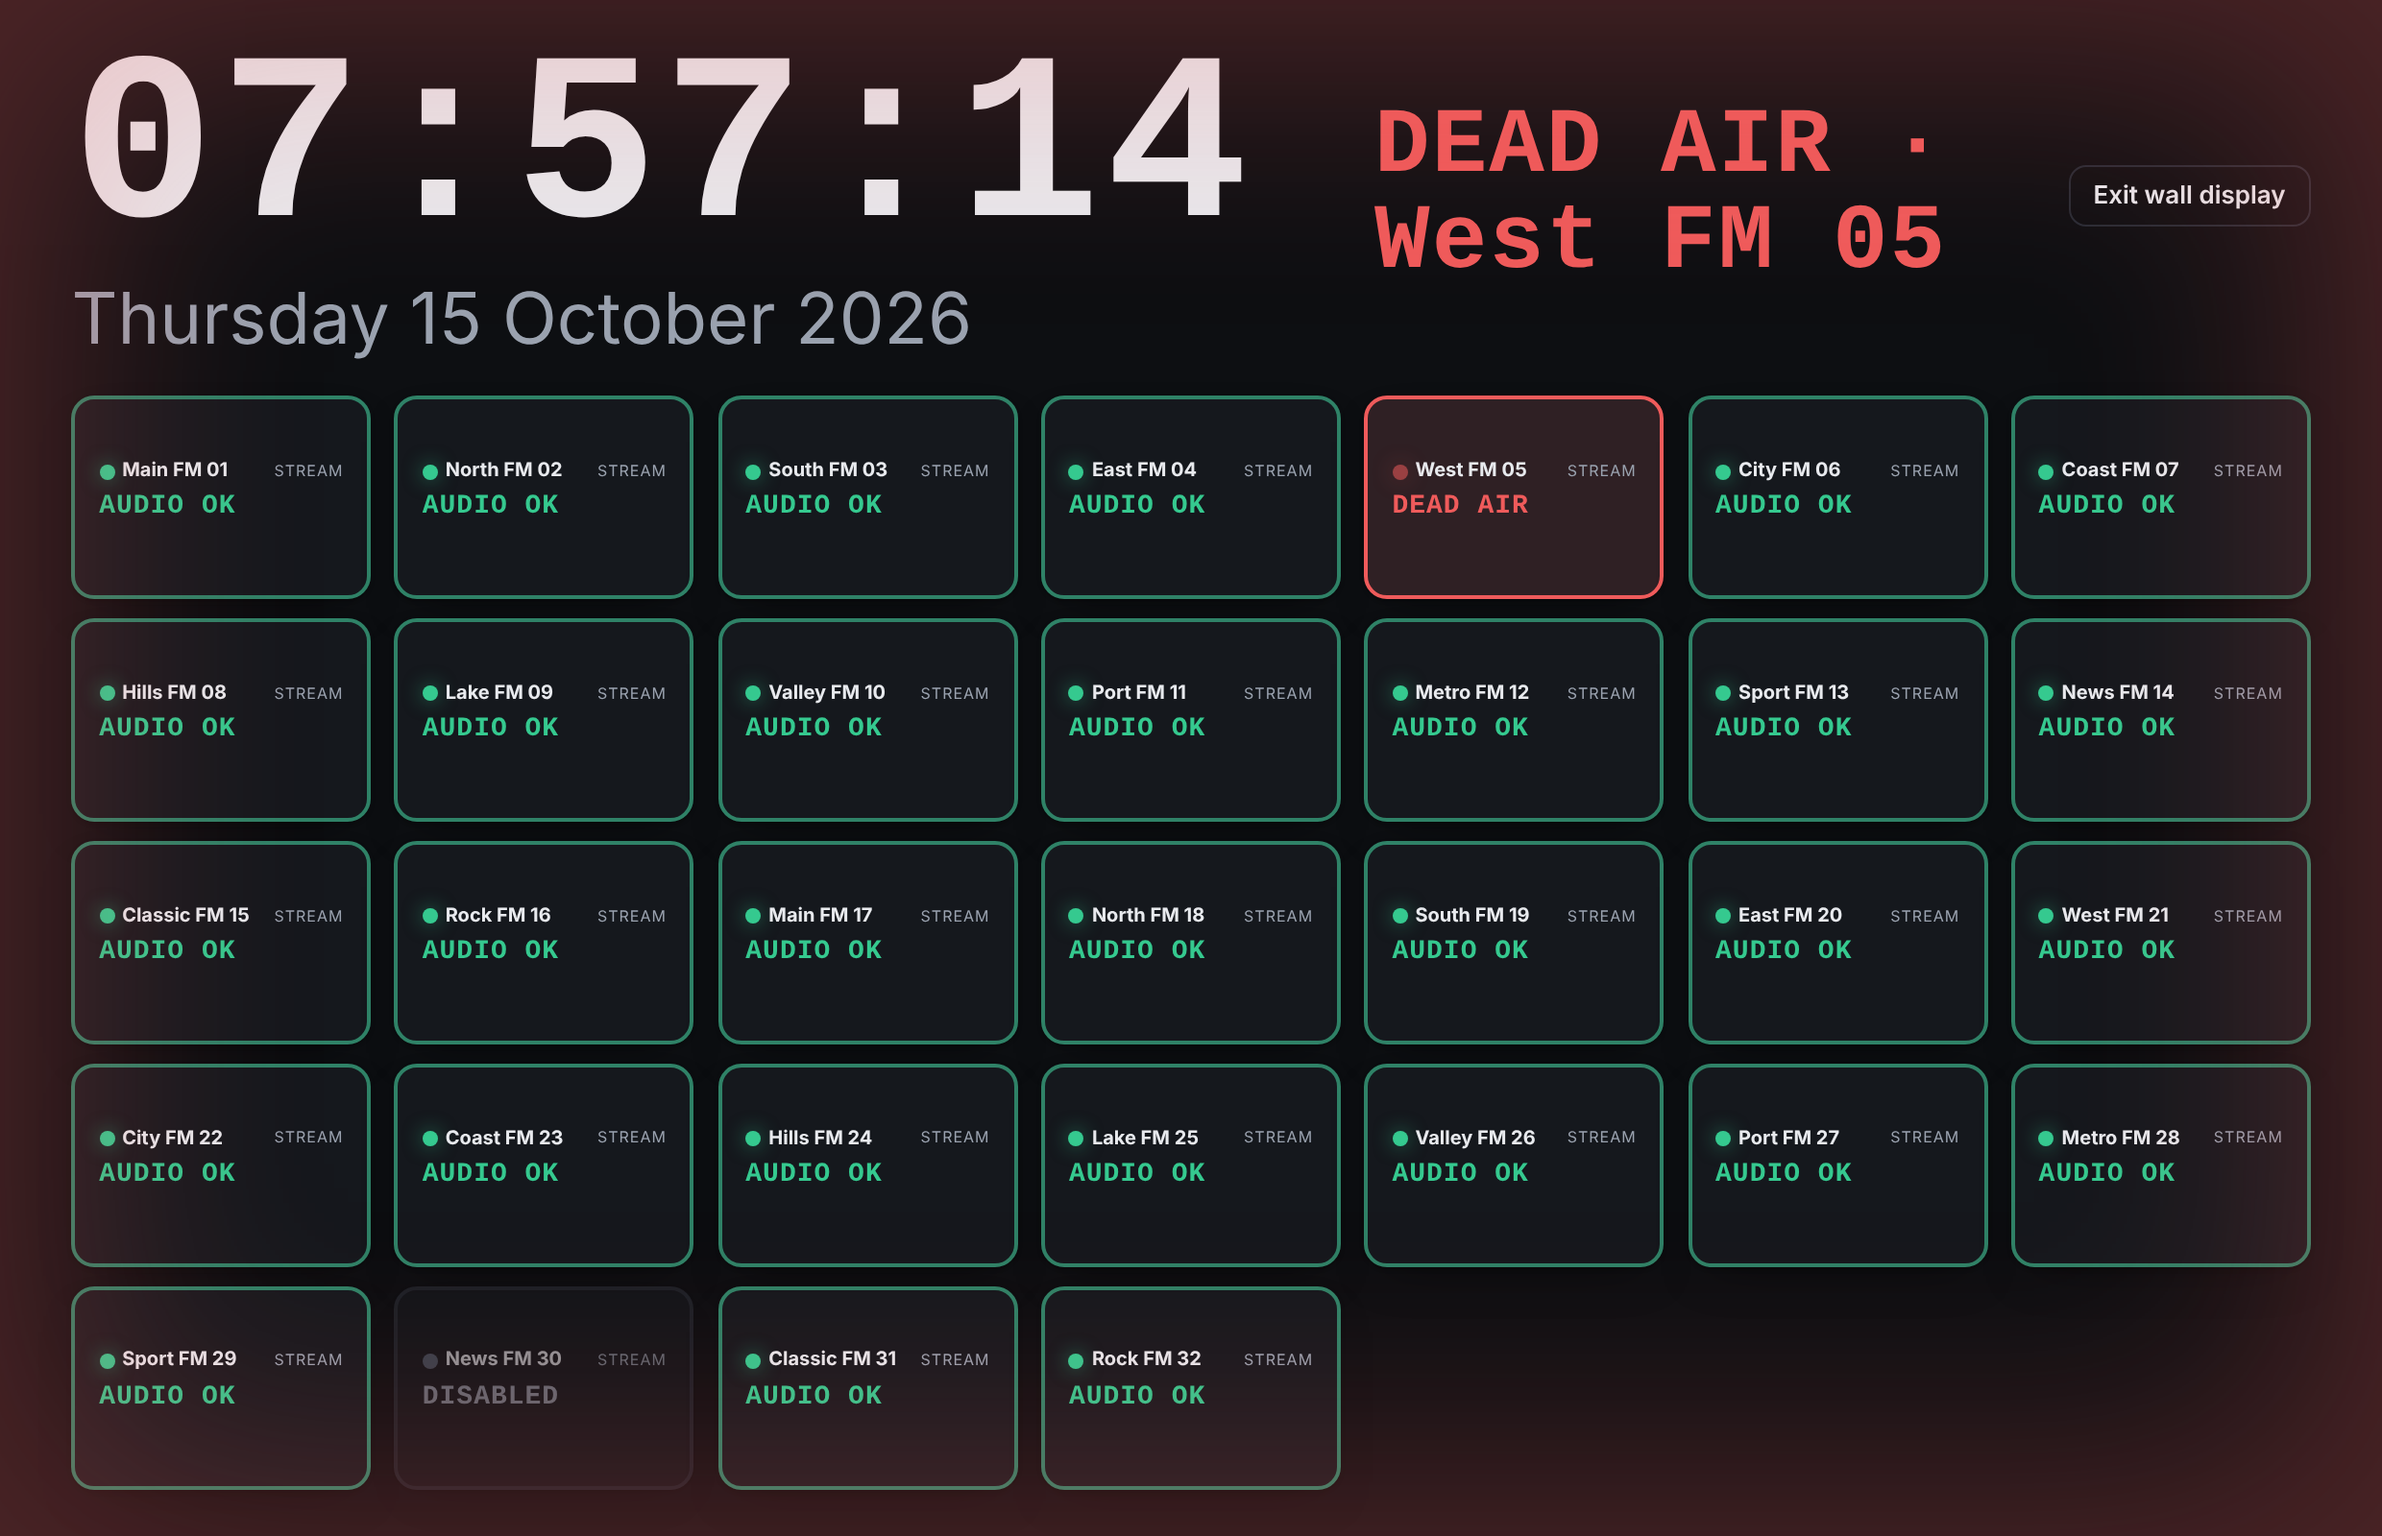
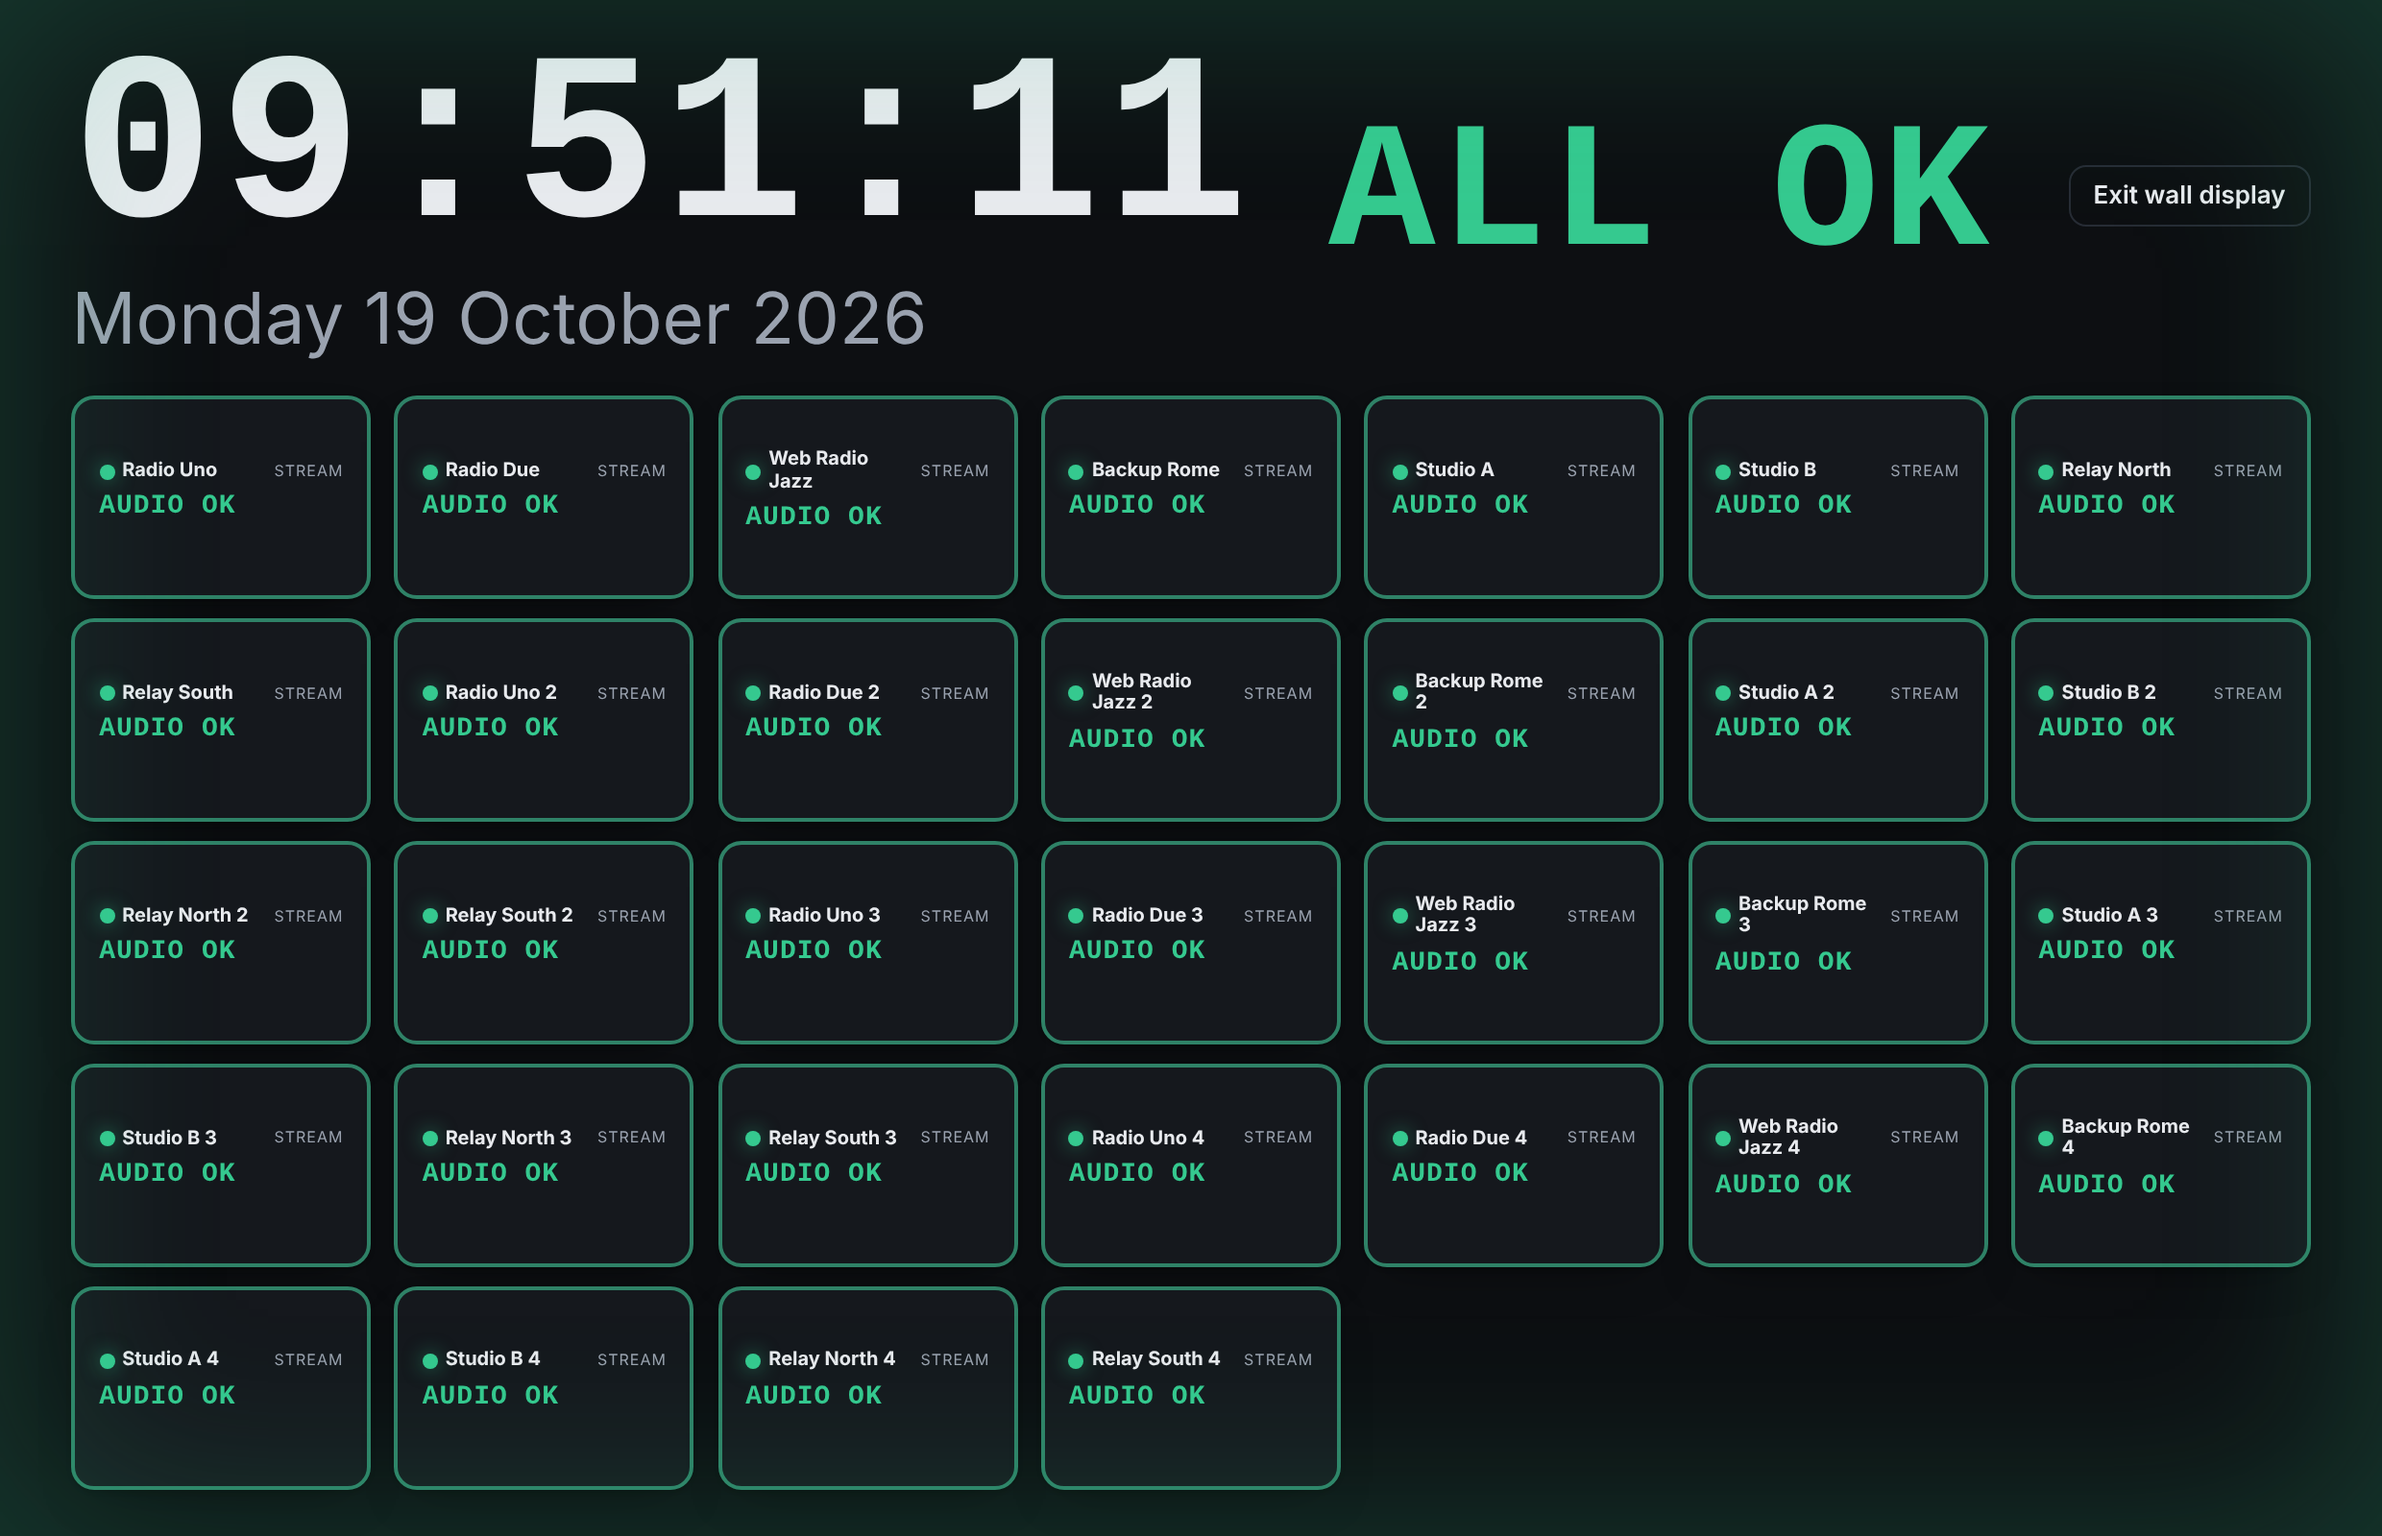
Docs: screenshots for 26.10.8 (wall display ALL OK, summary) (#19)
Claude-Session: https://claude.ai/code/session_01JKMiL3iVCk23FZszDhZ8Rx

diff --git a/README.md b/README.md
@@ -42,8 +42,12 @@ By Graziano Melzi · [OnAir Garage](https://onairgarage.com) — contact: hello@
 ![Wall display with long names](docs/screenshots/05-wall-display.png)
 ![Inputs with the buttons to change their order](docs/screenshots/06-inputs-order.png)
 ![Wall display with 32 inputs](docs/screenshots/07-wall-32-inputs.png)
+
+![Wall display: the large ALL OK](docs/screenshots/17-wall-all-ok.png)
 ![A field that failed the check, marked in red](docs/screenshots/08-invalid-field.png)
 ![Micro-silences in the event log](docs/screenshots/09-micro-silences.png)
+
+![Summary: availability per input and common problems](docs/screenshots/18-summary.png)
 ![Update banner](docs/screenshots/10-update-banner.png)
 ![Updates settings with the download verified](docs/screenshots/11-update-settings.png)
 ![Wall display with large logos](docs/screenshots/12-wall-large-logo.png)
